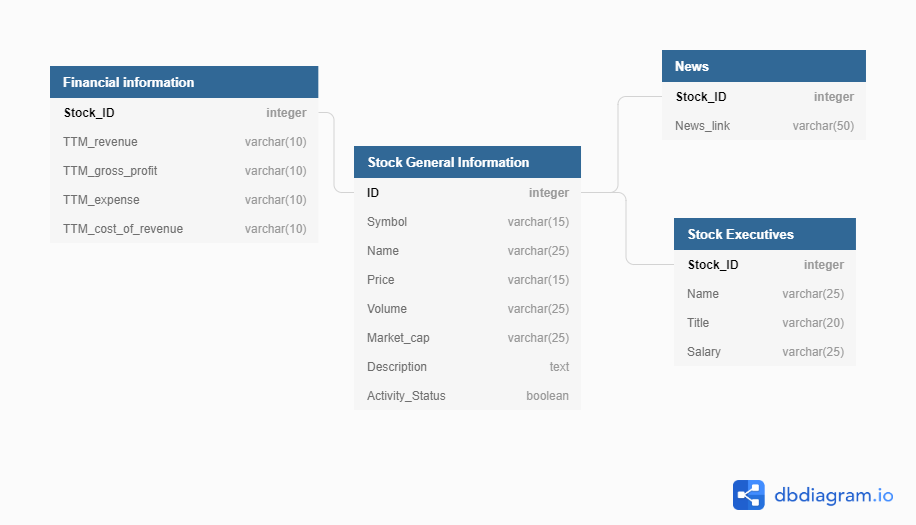
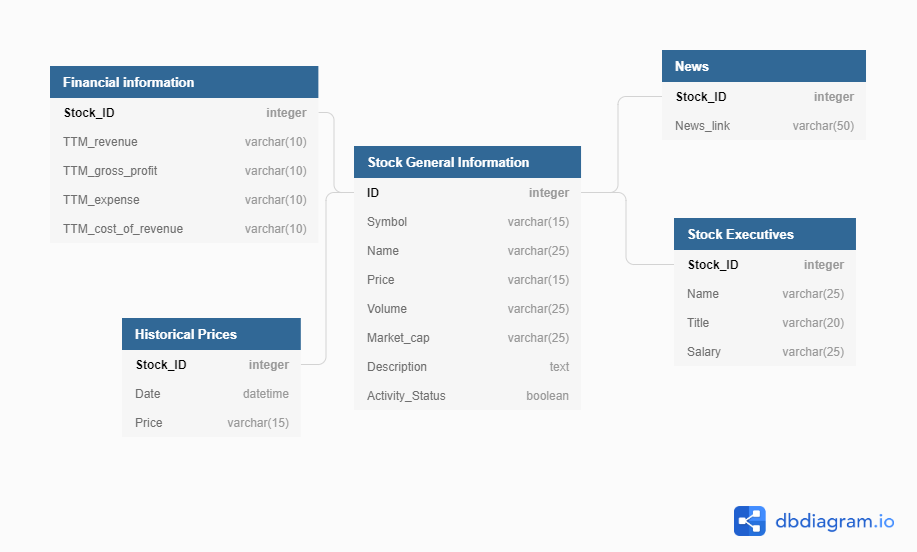
added historical price information to: README.md stocks info ERD.png stocks_information.md

diff --git a/README.md b/README.md
@@ -1,8 +1,8 @@
 ![yahoo-finance-img](https://outwardhound.com/furtropolis/wp-content/uploads/2014/11/yahoo-finance.png)
 
-#Welcome to Yahoo-Finance scraper!
+# Welcome to Yahoo-Finance scraper!
 
-####This project is a part of [ITC](https://www.itc.tech/) DataScience course
+#### This project is a part of [ITC](https://www.itc.tech/) DataScience course
 
 This project scrapes wide range of information about currently most active market stocks.
 Detailed Information regarding the stock's data and ERD can be found in the on [stocks_information.md](stocks_information.md) file.
@@ -10,7 +10,7 @@ Detailed Information regarding the stock's data and ERD can be found in the on [
 The data is being scraped from https://finance.yahoo.com/most-active website.
 
 
-##Prerequisites and Installation
+## Prerequisites and Installation
 
 in order to run the project, please make sure to follow the [requirements.txt](requirements.txt) file
 
@@ -20,7 +20,7 @@ For easy coordination of your environment, use the package manager [pip](https:/
 pip --user install requirements.txt
 ```
 
-##How to Run the Project?
+## How to Run the Project?
 * make sure your working environment is up to date with all the needed packages and installations.
 for more detailed information - check 'Prerequisites and Installation' section.
 
@@ -31,7 +31,7 @@ for more detailed information - check 'Prerequisites and Installation' section.
   running it like that - sets up to default state.
   for output variations, please take a look at 'Running Features' section.
     
-###Running Features:    
+### Running Features:    
 * Stocks information:
     * Default state - scrapes information of all the stocks currently exist in [most-active](https://finance.yahoo.com/most-active) page.  
     * if you are interested in pulling information of a specific stock\s - add stock symbol\s, delimited by spaces (if neccessery)  
@@ -60,7 +60,7 @@ for more detailed information - check 'Prerequisites and Installation' section.
 
 *_Detailed explanation of the data can be found on the  attached 'stocks_information.md' file_
 
-##Authors
+## Authors
 
 - Agur Inbal
 - Attias Haim

diff --git a/stocks_information.md b/stocks_information.md
@@ -2,22 +2,22 @@
 
 ![](stocks info ERD.png)
 
-###Main Table
+### Main Table
 
 **Stock General Information:**
 * Contains general data regarding current stock:
     * ID - unique ID per stock, serves as PK 
     * symbol - stock initials, uppercase letters - (also used in case of calling a specific symbol in the CLI) 
     * Name - full stock name
-    * Price -  
-    * Volume - 
-    * Market_cap - 
-    * Description - couple of lines of stock's description,
+    * Price - stock's current price 
+    * Volume - stock's current volume
+    * Market_cap - stock's current market cap
+    * Description - stock's profile description
     * Activity_status - 
         * 1 : currently in the most active stocks' list, 
         * 0 : currently **not** in the most active stocks' list.
 
-###Related Tables
+### Related Tables
 
 **News:**
 * Contains links to recent articles related to the current stock
@@ -25,20 +25,25 @@
     * News_link - link to the stock's article
     
     
- **Stock Executives:**     
- * Contains executives' information for a certain stock 
+**Stock Executives:**     
+* Contains executives' information for a certain stock 
     * Symbol_ID - serves as FK for a current stock
     * Name - executive's full name
     * Title - executive's position
     * Salary - executive's salary
     
  
- **Financial Information:**
- * Contains financial information for a certain stock 
+**Financial Information:**
+* Contains financial information for a certain stock 
     * Symbol_ID - serves as FK for a current stock
     * TTM-revenue - monthly total revenue
     * TTM-gross-profit - monthly gross profit
     * TTM-expense - monthly expenses
     * TTM-cost-of-revenue - monthly cost of revenue
     
+**historical_prices**
+* Contains stock's price each update run of the scraping 
+    * Symbol_ID - serves as FK for a current stock
+    * Price - stock's price
+    * Date - the timestamp for when the price was scraped
     
